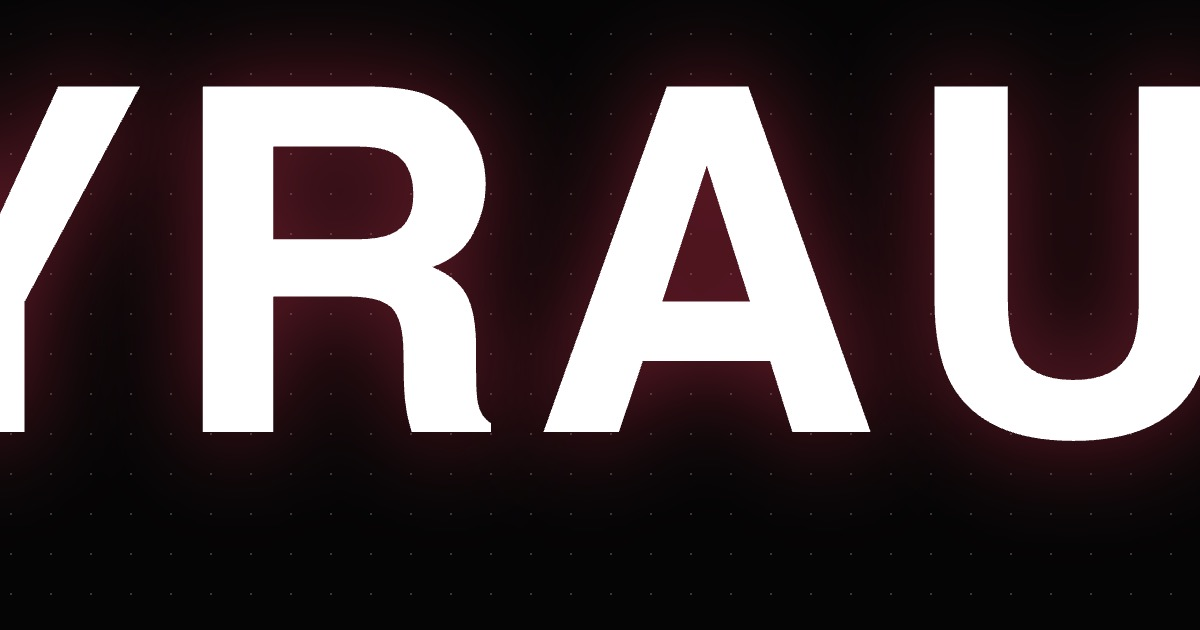
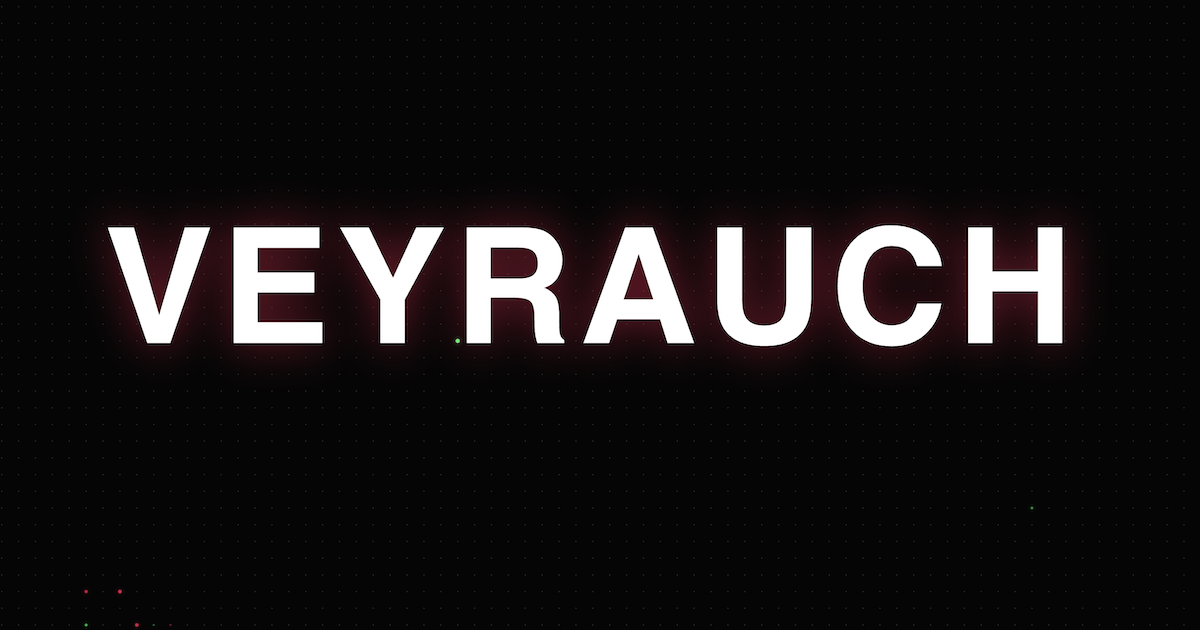
Update frontend components, remove old videos, and add compressed videos

diff --git a/app/components/AboutSection.vue b/app/components/AboutSection.vue
@@ -12,11 +12,26 @@
             <b>Привет! Меня зовут Лера.</b>
           </p>
           <p>
-            Я в танцах уже 6 лет, и K-pop cover dance — моя главная страсть.
-            Мой главный фокус сейчас — это делиться опытом. Я запустила свои классы в Краснодаре, чтобы доказать:
-            научиться круто двигаться и кайфовать от себя может каждый. Даже если ты никогда раньше не танцевала. На
-            моих тренировках нет строгих оценок — только поддержка, вайб любимых айдолов и бережный, пошаговый разбор
-            хореографии.
+            Я танцую уже более 6 лет, и K-pop для меня - это гораздо больше, чем просто любимое направление. Это то, что
+            вдохновляет меня развиваться, изучать новые хореографии и делиться этой любовью с другими.
+          </p>
+          <p>
+            При этом я не ограничиваюсь только K-pop. Уже три года я занимаюсь современной хореографией, потому что
+            уверена: хороший преподаватель не перестает учиться сам. Этот опыт помогает мне лучше понимать движение,
+            уделять внимание технике и объяснять даже сложные элементы простым и понятным языком.
+          </p>
+          <p>
+            После нескольких лет в танцах, я решила открыть собственные занятия. Мне хотелось создать место, где не
+            страшно сделать ошибку, где не нужно соответствовать чьим-то ожиданиям и где можно начать танцевать с нуля.
+          </p>
+          <p>
+            Я верю, что прогресс начинается с удовольствия от процесса. Поэтому на моих занятиях мы не гонимся за
+            идеалом любой ценой. Мы постепенно осваиваем технику, внимательно относимся к своему телу и учимся двигаться
+            уверенно, сохраняя самое главное - удовольствие от танца.
+          </p>
+          <p>
+            Если вы давно хотели попробовать кавердэнс, но переживали, что у вас ничего не получится, возможно, именно
+            здесь стоит начать.
           </p>
         </div>
       </div>
@@ -83,6 +98,8 @@
   text-align: left;
   letter-spacing: 2px;
   line-height: 1.2;
+  overflow-wrap: break-word;
+  word-break: break-word;
 }
 
 .about-text {
@@ -104,6 +121,7 @@
 
   .about-image-wrapper {
     max-width: 100%;
+    padding: 0 10px;
   }
 
   .about-heading {
@@ -112,6 +130,18 @@
 
   .about-text {
     text-align: left;
+  }
+}
+
+@media (max-width: 480px) {
+  .about-text {
+    font-size: 1rem;
+    line-height: 1.6;
+    gap: 15px;
+  }
+
+  .about-heading {
+    letter-spacing: 0;
   }
 }
 </style>

diff --git a/app/pages/index.vue b/app/pages/index.vue
@@ -67,11 +67,18 @@ const faqs = [
   }
 ];
 
-// Управление прелоадером с учетом куки (работает и на сервере, избавляет от моргания)
+// Управление прелоадером с учетом куки
 const preloaderCookie = useCookie('preloaderShown', { maxAge: 5 * 60 * 60 });
 
-// Если кука есть, значит мы показывали прелоадер менее 5 часов назад
-const preloaderFinished = ref(!!preloaderCookie.value);
+// Инициализируем всегда как false, чтобы серверный HTML полностью совпадал с клиентским (убирает Hydration Mismatch)
+const preloaderFinished = ref(false);
+
+onMounted(() => {
+  // Проверяем куку только после гидратации на стороне клиента
+  if (preloaderCookie.value) {
+    preloaderFinished.value = true;
+  }
+});
 
 function onPreloaderComplete() {
   preloaderFinished.value = true;
@@ -138,7 +145,8 @@ useHead({
 .hero-wrapper {
   position: relative;
   width: 100vw;
-  height: 100vh;
+  min-height: 100vh;
+  min-height: 100svh;
   display: flex;
   align-items: center;
   justify-content: center;
@@ -190,20 +198,35 @@ useHead({
 
 .subtitle {
   font-family: 'Tektur', sans-serif;
-  font-size: 1.2rem;
+  font-size: clamp(0.9rem, 2.5vw, 1.2rem);
   font-weight: 600;
-  letter-spacing: 4px;
+  letter-spacing: 2px;
   text-transform: uppercase;
   color: rgba(255,255,255,0.7);
   max-width: 600px;
+  padding: 0 var(--container-padding-x);
 }
 
 .buttons-row {
   display: flex;
   gap: 20px;
+  flex-wrap: wrap;
   align-items: center;
   justify-content: center;
   margin-top: 40px;
+  padding: 0 var(--container-padding-x);
+}
+
+@media (max-width: 768px) {
+  .content {
+    gap: 20px;
+  }
+  
+  .buttons-row {
+    margin-top: 25px;
+    flex-direction: column;
+    gap: 15px;
+  }
 }
 
 .faq-section {

diff --git a/app/components/AppHeader.vue b/app/components/AppHeader.vue
@@ -64,4 +64,31 @@ onUnmounted(() => {
   font-size: 0.9rem;
   padding: 12px 30px;
 }
+
+@media (max-width: 768px) {
+  .logo {
+    font-size: 1.4rem;
+  }
+  .app-header.is-scrolled .logo {
+    font-size: 1.2rem;
+  }
+  .book-btn {
+    font-size: 0.8rem;
+    padding: 10px 20px;
+  }
+}
+
+@media (max-width: 480px) {
+  .logo {
+    font-size: 1.2rem;
+    letter-spacing: 1px;
+  }
+  .app-header.is-scrolled .logo {
+    font-size: 1rem;
+  }
+  .book-btn {
+    font-size: 0.75rem;
+    padding: 8px 16px;
+  }
+}
 </style>

diff --git a/app/components/FaqAccordion.vue b/app/components/FaqAccordion.vue
@@ -207,4 +207,27 @@ path {
   stroke-linecap: round;
   stroke-linejoin: round;
 }
+
+@media (max-width: 768px) {
+  .faq-content {
+    padding: 15px 20px;
+  }
+  .faq-question {
+    font-size: 1rem;
+    padding-right: 15px;
+  }
+}
+
+@media (max-width: 480px) {
+  .faq-content {
+    padding: 12px 15px;
+  }
+  .faq-question {
+    font-size: 0.9rem;
+  }
+  .faq-answer {
+    font-size: 0.9rem;
+    padding-top: 10px;
+  }
+}
 </style>

diff --git a/app/assets/css/main.css b/app/assets/css/main.css
@@ -23,9 +23,9 @@
   --spacing-xl: 60px;
 
   /* Typography Variables */
-  --text-h1: clamp(2.5rem, 5vw, 5.5rem);
-  --text-h2: clamp(2.2rem, 4vw, 3.5rem);
-  --text-subtitle: clamp(1rem, 2vw, 1.8rem);
+  --text-h1: clamp(2rem, 6vw, 5.5rem);
+  --text-h2: clamp(1.8rem, 5vw, 3.5rem);
+  --text-subtitle: clamp(1rem, 2.5vw, 1.8rem);
 }
 
 /* Breakpoints (using variables inside media queries for responsiveness) */
@@ -42,6 +42,15 @@
     --section-padding-y: 60px;
     --header-padding-y: 20px;
     --spacing-lg: 30px;
+    --container-padding-x: 15px;
+  }
+}
+
+@media (max-width: 480px) {
+  :root {
+    --section-padding-y: 50px;
+    --header-padding-y: 15px;
+    --spacing-lg: 20px;
     --container-padding-x: 15px;
   }
 }

diff --git a/app/components/SectionHeading.vue b/app/components/SectionHeading.vue
@@ -15,12 +15,21 @@
 }
 
 .section-title {
-  font-size: clamp(2.5rem, 5vw, 4rem);
+  font-size: var(--text-h2);
   font-weight: 800;
   text-transform: uppercase;
   color: var(--text-color, #fff);
   margin-bottom: 40px;
   text-align: left;
   letter-spacing: 2px;
+  overflow-wrap: break-word;
+  word-break: break-word;
+}
+
+@media (max-width: 480px) {
+  .section-title {
+    letter-spacing: 0;
+    margin-bottom: 25px;
+  }
 }
 </style>

diff --git a/app/components/AppFooter.vue b/app/components/AppFooter.vue
@@ -54,4 +54,14 @@ const currentYear = computed(() => new Date().getFullYear())
   max-width: 800px;
   line-height: 1.5;
 }
+
+@media (max-width: 480px) {
+  .copyright {
+    font-size: 0.8rem;
+  }
+  .disclaimer {
+    font-size: 0.65rem;
+    line-height: 1.4;
+  }
+}
 </style>

diff --git a/app/components/AppPreloader.vue b/app/components/AppPreloader.vue
@@ -37,6 +37,7 @@ const { paths, basePoints, amplitude, colors } = useStringWave({ closed: true, m
 
 const frame = { top: 0, bottom: 0, left: 0, right: 0 };
 let tickerFunc = null;
+let tl = null; // Храним ссылку на timeline
 
 function updatePoints() {
   const w = frame.right - frame.left;
@@ -66,7 +67,7 @@ onMounted(() => {
   tickerFunc = () => updatePoints();
   gsap.ticker.add(tickerFunc);
   
-  const tl = gsap.timeline({
+  tl = gsap.timeline({
     onComplete: () => {
       emit('complete');
     }
@@ -131,6 +132,7 @@ onMounted(() => {
 
 onBeforeUnmount(() => {
   if (tickerFunc) gsap.ticker.remove(tickerFunc);
+  if (tl) tl.kill();
 });
 </script>
 
@@ -165,10 +167,10 @@ path {
   position: relative;
   z-index: 2;
   display: flex;
-  gap: 15px;
-  font-size: 6rem;
+  gap: clamp(5px, 1.5vw, 15px);
+  font-size: clamp(2rem, 10vw, 6rem);
   font-weight: 800;
-  letter-spacing: 5px;
+  letter-spacing: clamp(2px, 1vw, 5px);
   color: var(--text-color);
   transform-origin: center center;
 }

diff --git a/app/components/VideoGallery.vue b/app/components/VideoGallery.vue
@@ -213,4 +213,11 @@ onMounted(() => {
     grid-auto-columns: 112px;
   }
 }
+
+@media (max-width: 380px) {
+  .gallery-grid {
+    grid-template-rows: repeat(2, 160px);
+    grid-auto-columns: 100px;
+  }
+}
 </style>

diff --git a/app/app.vue b/app/app.vue
@@ -5,6 +5,12 @@
 <script setup>
 import { useRuntimeConfig, useHead } from '#imports'
 
+useHead({
+  link: [
+    { rel: 'icon', type: 'image/svg+xml', href: '/favicon.svg' }
+  ]
+})
+
 const config = useRuntimeConfig()
 const headScripts = []
 

diff --git a/app/pages/og-image.vue b/app/pages/og-image.vue
@@ -30,12 +30,14 @@ useHead({
 
 .og-text {
   font-family: 'Unbounded', sans-serif;
-  font-size: 15rem; /* Очень крупно для OG Image (обычно 1200x630) */
+  font-size: clamp(4rem, 10vw, 12rem); /* Адаптивный размер, чтобы буквы не обрезались */
   font-weight: 900;
   letter-spacing: 10px;
   color: #fff; /* Или можно сделать неоновым */
   text-transform: uppercase;
   z-index: 10;
+  text-align: center;
+  max-width: 90vw; /* Дополнительная защита от обрезания */
   text-shadow: 0 0 50px rgba(255, 16, 83, 0.5); /* Неоновое свечение */
 }
 

diff --git a/nuxt.config.ts b/nuxt.config.ts
@@ -11,7 +11,8 @@ export default defineNuxtConfig({
 
   site: {
     url: 'https://veyrauch-dance.ru', // Временно или можно заменить на реальный домен
-    name: 'Veyrauch Cover Dance'
+    name: 'Veyrauch Cover Dance',
+    indexable: false // Запрет индексации для тестового домена
   },
 
   runtimeConfig: {